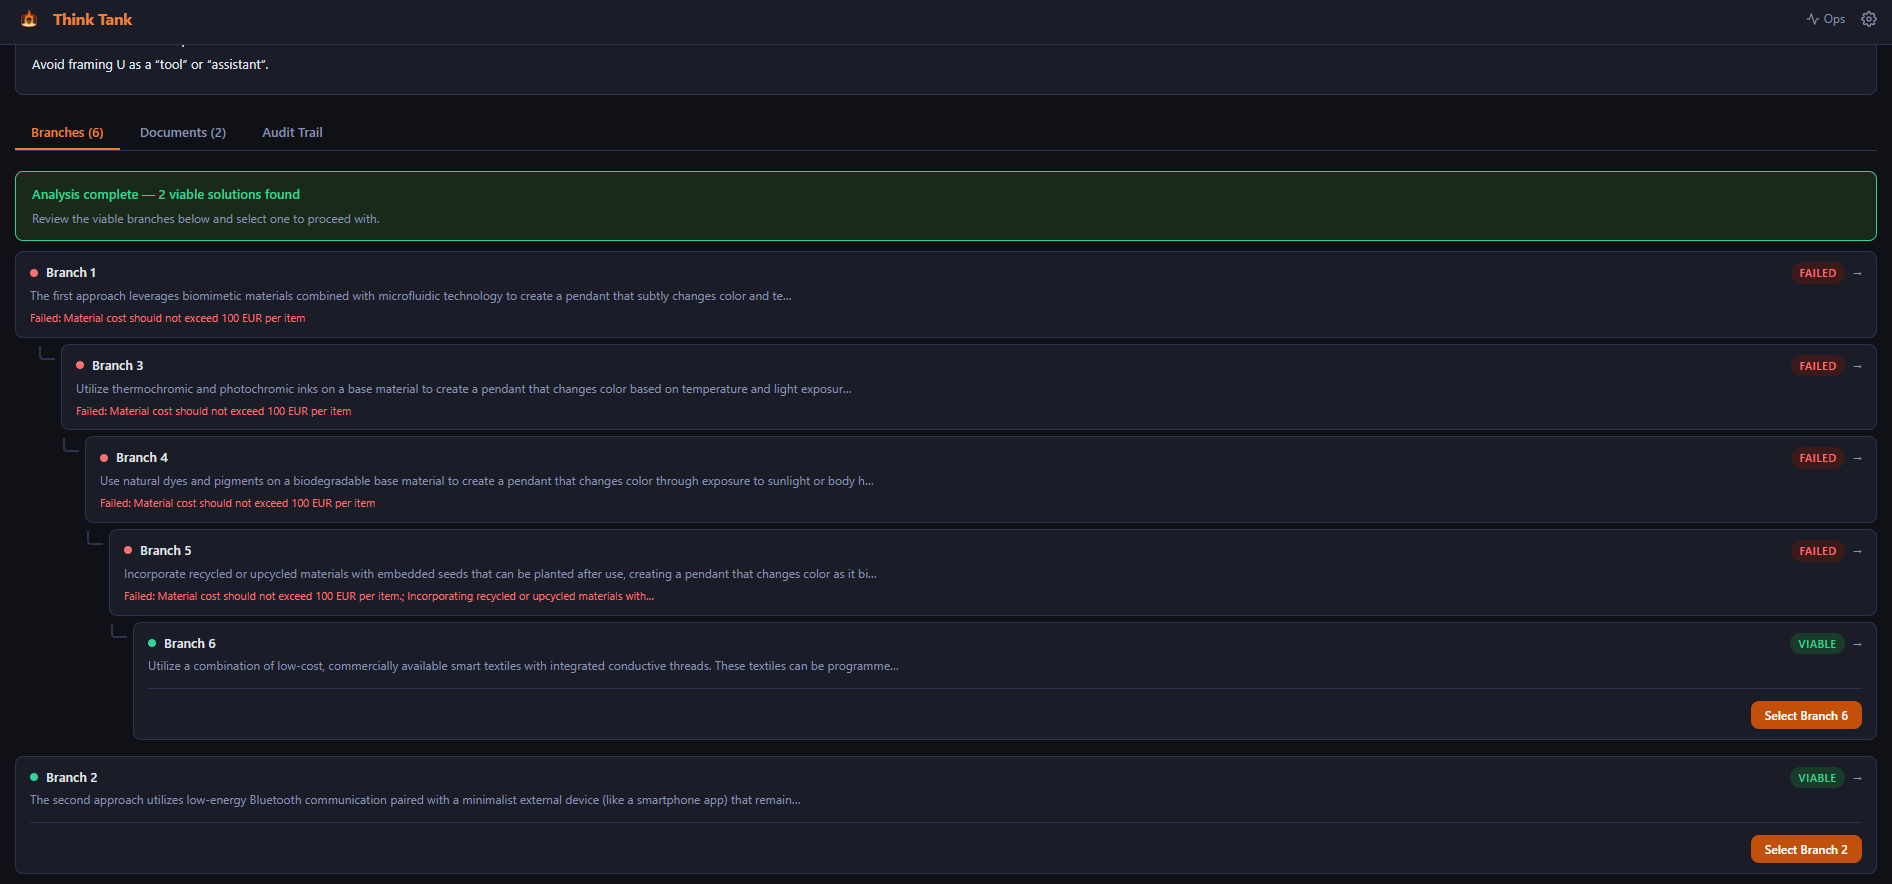
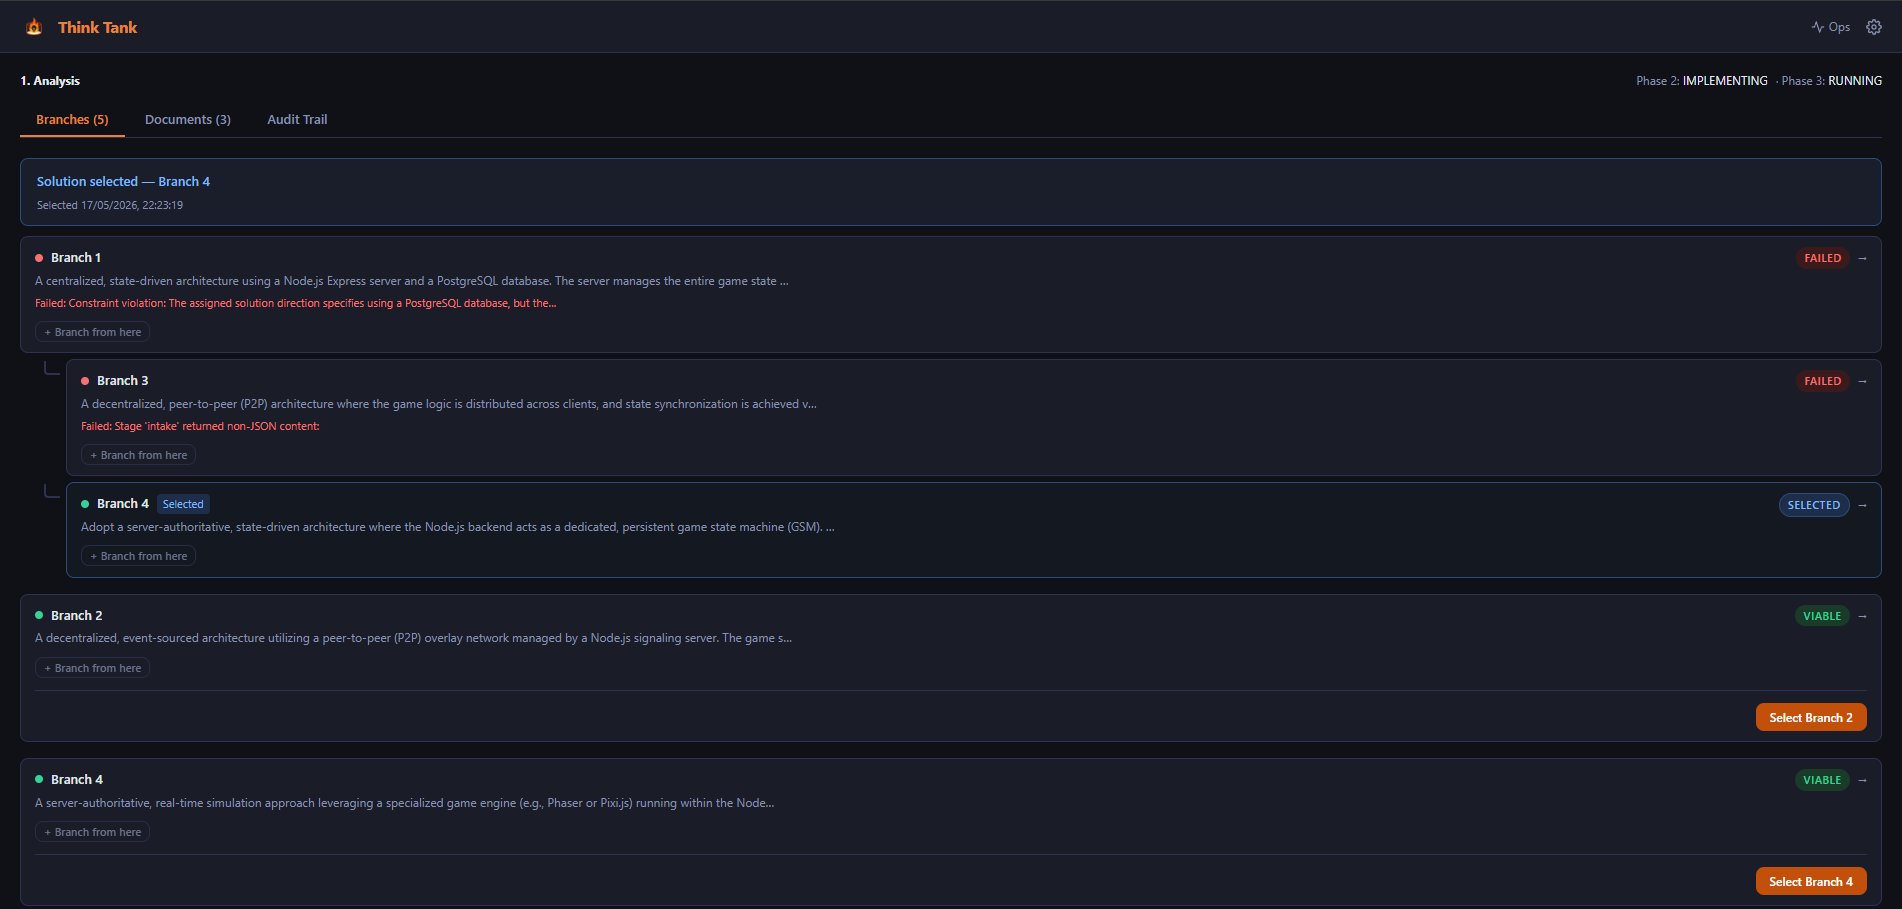
docs: update README with planning phase, manual branching, ComfyUI; refresh screenshots

diff --git a/README.md b/README.md
@@ -49,6 +49,8 @@ Submit an idea with a description, requirements, and constraints. Think Tank spa
 
 Branches that fail are analysed for root cause and new alternative branches are spawned. The pipeline converges when at least one branch reaches VIABLE status. You then review all viable solutions and select one to proceed with.
 
+You can also branch manually at any point: the **+ New Branch** button creates a fresh top-level alternative, and clicking on any existing branch lets you fork from it — useful for exploring a variant of a specific approach without rerunning the whole pipeline from scratch.
+
 ![Phase 1 solution branching](docs/solution_branching.png)
 
 ### Phase 2 — Q&A & Resolution
@@ -81,6 +83,7 @@ Supported project types include Node.js, Python, and .NET — the orchestrator d
 - [Ollama](https://ollama.com) installed and running
 - A GPU with enough VRAM for the models you want to run (tested on RTX 4070 SUPER 12 GB)
 - **Optional:** Intel Core Ultra CPU for OpenVINO NPU/GPU stages (tested on Core Ultra 7 265k)
+- **Optional:** [ComfyUI](https://github.com/comfyanonymous/ComfyUI) for image and audio generation
 
 ---
 